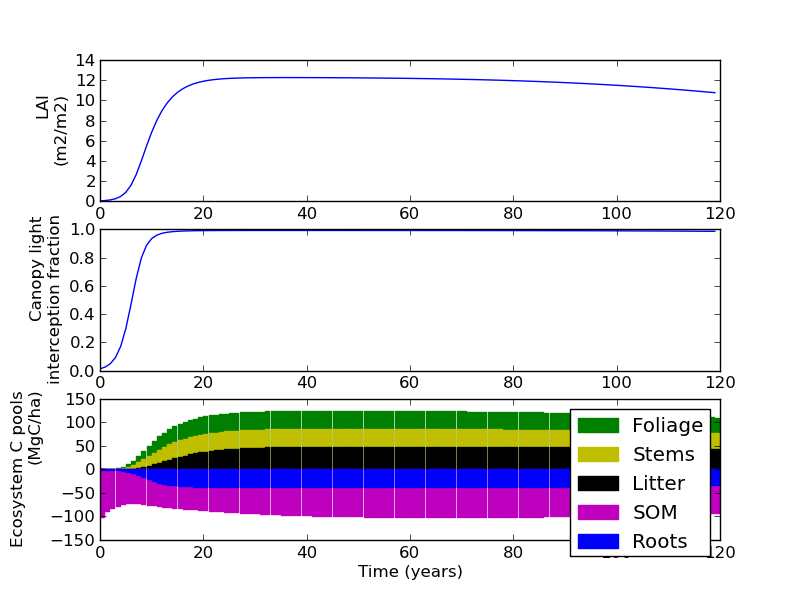
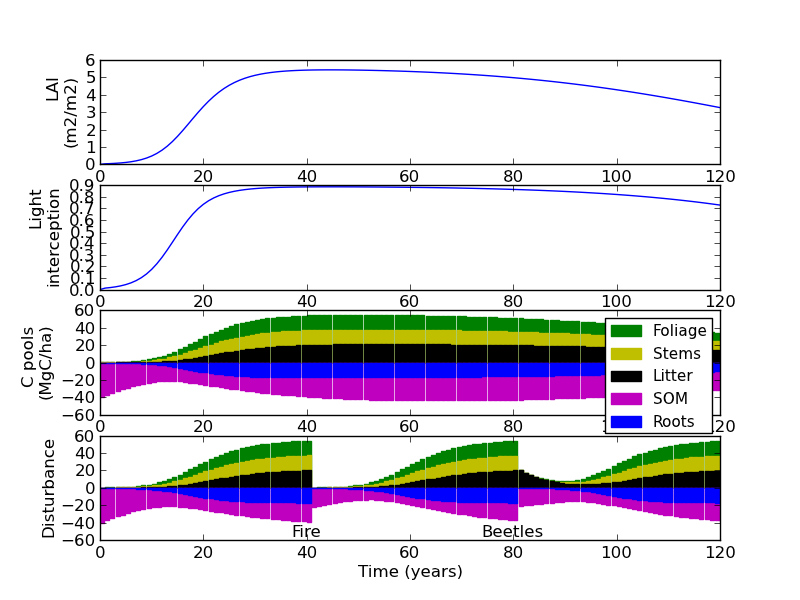
Function-alized fire, unharvested infestation, and harvested infestation (current unused) events.  Added some example disturbance events to 'stand' output figure.  Updated 3-PG routine to include autotrophic respiration (i.e., P.net = 0.45 P.grass), fixed PAR estimate (50% of total shortwave, not 45

Changed region(s): [[0.0, 0.09, 0.9375, 0.93], [0.25, 0.09, 0.9062, 0.18], [0.1875, 0.18, 0.2188, 0.21]]

diff --git a/dynamics.py b/dynamics.py
@@ -21,12 +21,13 @@ print """
 """
 
 # define default values for all model parameters in structure [float(value), str(units), str(description)]
-params = {'age_max': [200, 'years', 'estimated maximum stand age'],
+params = {'age_max': [150, 'years', 'estimated maximum stand age'],
           'n_age': [4, '-', 'hydraulic conductivity age modifier exponent'],
           'phi_s': [5.5, 'kWh/m2/day', 'annually-averaged incoming short-wave radiation'],   # Denver http://www.apricus.com/upload/userfiles/images/Insolation-levels-USA.jpg
           'f_DT': [0.5, '-', 'annually-averaged temperature/moisture modifier value'],
           'sigma_f': [3.2, 'm2/kg', 'specific leaf area'],   # Chen et al. CJFR 1996 Fig. 3c
-          'beers_k': [0.4, '-', 'Beers Law light extinction coefficient']   # Binkley et al. FEM 2013 Fig. 4c; POOR MODEL FOR LODGEPOLE!
+          'beers_k': [0.4, '-', 'Beers Law light extinction coefficient'],   # Binkley et al. FEM 2013 Fig. 4c; POOR MODEL FOR LODGEPOLE!
+          'microbial_efficiency': [0.25, '-', 'Fraction of C entering soil that gets stabilized']
           }
 
 
@@ -47,6 +48,7 @@ def three_PG(age, params, states):
     f_DT = params['f_DT'][0]
     sigma_f = params['sigma_f'][0]
     beers_k = params['beers_k'][0]
+    microbial_efficiency = params['microbial_efficiency'][0]
 
     # read most current values of state variables
     w_f = states['w_f'][-1]
@@ -62,13 +64,14 @@ def three_PG(age, params, states):
 
     # calculate average annual insolation, age modifier, and annual total biomass increment
     phi_s_conv = phi_s * 3.6   # average short-wave insolation conversion to MJ/m2/day
-    phi_p = phi_s_conv * 0.45   # photosynthetically-active radiation is 45% of total shortwave
+    phi_p = phi_s_conv * 0.5   # photosynthetically-active radiation is 45% of total shortwave
     phi_pa = phi_p * intercept_fraction   # absorbed PAR
     alpha_c = 1.8   # universal canopy quantum efficiency coefficient, gC/MJ
     f_age = age_modifier(age, age_max, n_age)
     avg_daily_C_increment = phi_pa * alpha_c * f_DT * f_age   # gC/m2/day
+    net_daily_C = avg_daily_C_increment * 0.45
     # c_concentration = 0.45
-    annual_c_increment = (avg_daily_C_increment) * 365 * 0.01  # Mg/ha/y
+    annual_c_increment = net_daily_C * 365 * 0.01  # Mg/ha/y
 
     # calculate all turnover & transfer quantities
     # ToDo: update litterfall routine with attenuation for young stands
@@ -80,7 +83,6 @@ def three_PG(age, params, states):
     som_k = (-1 * np.log(0.5)) / som_time_constant
     som_turnover = w_o * (1 - np.exp(-1 * som_k))
     root_turnover = 0.25 * w_r
-    microbial_efficiency = 0.25
 
     # implement mass balance for all carbon pools
     # ToDo: update this with actual allometric equations
@@ -115,8 +117,43 @@ def c_plot(plot_object, w_l_array, w_s_array, w_f_array, w_r_array, w_o_array, t
         plot_object.bar(time_vector, w_r_plot, label='Roots', color='b', edgecolor='b')
         plot_object.ylabel(y_label)
         plot_object.xlabel("Time (years)")
-        plot_object.legend()
-        plot_object.show()
+
+
+def unharvested_infestation(param_dictionary, state_dictionary):
+    """All aboveground live transferred to litter, roots transferred to SOM after microbial efficiency adjustment
+    'LAI' and 'interception' are independently calculated at every time step, so arbitrarily set to zero here
+    """
+    microbial_efficiency = param_dictionary['microbial_efficiency'][0]
+    state_dictionary['age'].append(0)
+    state_dictionary['w_f'].append(0.1)
+    state_dictionary['w_s'].append(0.1)
+    state_dictionary['w_r'].append(0.1)
+    state_dictionary['w_l'].append(state_dictionary['w_l'][-1] + state_dictionary['w_f'][-1] + state_dictionary['w_s'][-1])
+    state_dictionary['w_o'].append(state_dictionary['w_o'][-1] + (state_dictionary['w_r'][-1] * microbial_efficiency))
+    state_dictionary['LAI'].append(0)
+    state_dictionary['interception'].append(0)
+
+
+def harvested_infestation(param_dictionary, state_dictionary):
+    """All aboveground live transferred to litter, roots transferred to SOM after microbial efficiency adjustment
+    'LAI' and 'interception' are independently calculated at every time step, so arbitrarily set to zero here
+    """
+    print
+
+
+def fire(param_dictionary, state_dictionary):
+    """All aboveground live and litter disappears, roots transferred to SOM after microbial efficiency adjustment
+    'LAI' and 'interception' are independently calculated at every time step, so arbitrarily set to zero here
+    """
+    microbial_efficiency = param_dictionary['microbial_efficiency'][0]
+    state_dictionary['age'].append(0)
+    state_dictionary['w_f'].append(0.1)
+    state_dictionary['w_s'].append(0.1)
+    state_dictionary['w_r'].append(0.1)
+    state_dictionary['w_l'].append(0.1)
+    state_dictionary['w_o'].append(state_dictionary['w_o'][-1] + (state_dictionary['w_r'][-1] * microbial_efficiency))
+    state_dictionary['LAI'].append(0)
+    state_dictionary['interception'].append(0)
 
 
 # main control loop
@@ -127,7 +164,7 @@ while True:
               'w_s': [0.1],   # stem weight, Mg/ha
               'w_r': [0.1],   # root weight, Mg/ha
               'w_l': [0.1],   # litter (surface biomass) weight, Mg/ha
-              'w_o': [100],   # soil organic matter weight, Mg/ha
+              'w_o': [40],   # soil organic matter weight, Mg/ha
               'LAI': [0],   # for display only
               'interception': [0]   # for display only
               }
@@ -154,26 +191,72 @@ while True:
 
     elif command == 'stand':
         # step through a sequence of simulation years and apply the 3-PG growth model each year
-        simulation_years = range(0, 120)
+        simulation_length = 120
+        simulation_years = range(0, simulation_length)
+        plot_years = range(0, simulation_length+1)
         age = 0
+        local_states = {'age': [states['age'][0]],
+                        'w_f': [states['w_f'][0]],
+                        'w_s': [states['w_s'][0]],
+                        'w_r': [states['w_r'][0]],
+                        'w_l': [states['w_l'][0]],
+                        'w_o': [states['w_o'][0]],
+                        'LAI': [states['LAI'][0]],
+                        'interception': [states['interception'][0]]
+                        }
         for year in simulation_years:
-            three_PG(age, params, states)
+            three_PG(age, params, local_states)
             age += 1
         # plot results
-        simulation_years.insert(0, 0)   # insert a value corresponding to initial conditions
-        plt.subplot(3, 1, 1)
-        plt.plot(simulation_years, states['LAI'])
+        plt.subplot(4, 1, 1)
+        plt.plot(plot_years, local_states['LAI'])
         plt.ylabel("LAI\n(m2/m2)")
-        plt.subplot(3, 1, 2)
-        plt.plot(simulation_years, states['interception'])
-        plt.ylabel("Canopy light\ninterception fraction")
-        plt.subplot(3, 1, 3)
-        w_s = np.array(states['w_s'])
-        w_f = np.array(states['w_f'])
-        w_r = np.array(states['w_r'])
-        w_l = np.array(states['w_l'])
-        w_o = np.array(states['w_o'])
-        c_plot(plt, w_l, w_s, w_f, w_r, w_o, simulation_years, "Ecosystem C pools\n(MgC/ha)")
+        plt.xlim((0, simulation_length))
+        plt.subplot(4, 1, 2)
+        plt.plot(plot_years, local_states['interception'])
+        plt.ylabel("Light\ninterception")
+        plt.xlim((0, simulation_length))
+        plt.subplot(4, 1, 3)
+        w_s = np.array(local_states['w_s'])
+        w_f = np.array(local_states['w_f'])
+        w_r = np.array(local_states['w_r'])
+        w_l = np.array(local_states['w_l'])
+        w_o = np.array(local_states['w_o'])
+        c_plot(plt, w_l, w_s, w_f, w_r, w_o, plot_years, "C pools\n(MgC/ha)")
+        plt.xlim((0, simulation_length))
+        plt.legend(prop={'size': 11})
+        # do another set of simulations with disturbance included this time
+        age = 0
+        local_states = {'age': [states['age'][0]],
+                        'w_f': [states['w_f'][0]],
+                        'w_s': [states['w_s'][0]],
+                        'w_r': [states['w_r'][0]],
+                        'w_l': [states['w_l'][0]],
+                        'w_o': [states['w_o'][0]],
+                        'LAI': [states['LAI'][0]],
+                        'interception': [states['interception'][0]]
+                        }
+        for year in simulation_years:
+            if year == 40:
+                age = 0
+                fire(params, local_states)
+            elif year == 80:
+                age = 0
+                unharvested_infestation(params, local_states)
+            else:
+                three_PG(age, params, local_states)
+            age += 1
+        plt.subplot(4, 1, 4)
+        w_s = np.array(local_states['w_s'])
+        w_f = np.array(local_states['w_f'])
+        w_r = np.array(local_states['w_r'])
+        w_l = np.array(local_states['w_l'])
+        w_o = np.array(local_states['w_o'])
+        c_plot(plt, w_l, w_s, w_f, w_r, w_o, plot_years, "Disturbance")
+        plt.text(40, -50, "Fire", horizontalalignment='center', verticalalignment='center')
+        plt.text(80, -50, "Beetles", horizontalalignment='center', verticalalignment='center')
+        plt.xlim((0, simulation_length))
+        plt.show()
 
     elif command == 'land':
         # time parameters
@@ -213,7 +296,7 @@ while True:
                             }
             # define stand starting age and stochstic variables
             age = 0
-            fire_frequency = 200   # years to a stand-replacing fire
+            fire_frequency = 100   # years to a stand-replacing fire
             infest_start = 2005
             infest_end = 2015
             infest_risk = 0.8 / (infest_end - infest_start)
@@ -223,34 +306,21 @@ while True:
                 rand = random()
                 if not infested and (infest_start <= year <= infest_end) and (rand <= infest_risk):
                     age = 0
-                    local_states['age'].append(0)
-                    local_states['w_f'].append(0.1)
-                    local_states['w_s'].append(0.1)
-                    local_states['w_r'].append(0.1)
-                    local_states['w_l'].append(local_states['w_l'][-1]+local_states['w_f'][-1]+local_states['w_s'][-1])
-                    local_states['w_o'].append(local_states['w_o'][-1]+local_states['w_r'][-1])
-                    local_states['LAI'].append(0)
-                    local_states['interception'].append(0)
+                    unharvested_infestation(params, local_states)
                 else:
                     # if no infestation, proceed normally with stochistic fire events or 3-PG growth step
                     fire_risk = (1.0/fire_frequency) * (local_states['w_l'][-1]/50)
                     rand = random()
                     if rand <= fire_risk:
                         age = 0
-                        local_states['age'].append(0)
-                        local_states['w_f'].append(0.1)
-                        local_states['w_s'].append(0.1)
-                        local_states['w_r'].append(0.1)
-                        local_states['w_l'].append(0.1)
-                        local_states['w_o'].append(local_states['w_o'][-1]+local_states['w_r'][-1])
-                        local_states['LAI'].append(0)
-                        local_states['interception'].append(0)
+                        fire(params, local_states)
                     else:
                         three_PG(age, params, local_states)
                     age += 1
 
             AGL = np.array(local_states['w_f']) + np.array(local_states['w_s'])
             plt.plot(plot_years, AGL, color="g")
+            plt.xlim((simulation_years[0], simulation_years[-1]))
             total_w_f += np.array(local_states['w_f'])
             total_w_s += np.array(local_states['w_s'])
             total_w_r += np.array(local_states['w_r'])
@@ -260,6 +330,9 @@ while True:
         plt.ylabel("Aboveground live biomass\n(Mg/ha)")
         plt.subplot(2, 1, 2)
         c_plot(plt, total_w_l, total_w_s, total_w_f, total_w_r, total_w_o, plot_years, "Total landscape carbon (MgC)")
+        plt.legend(loc=3, prop={'size': 11})
+        plt.xlim((simulation_years[0], simulation_years[-1]))
+        plt.show()
 
     elif command == 'q':
         print "   Quitting application..."
